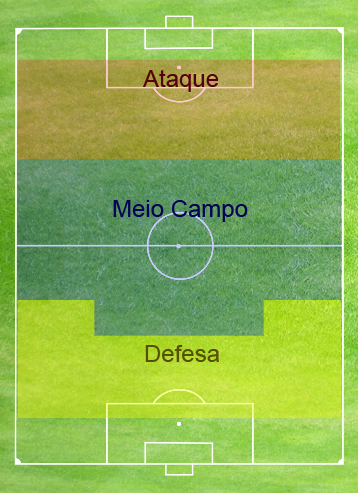
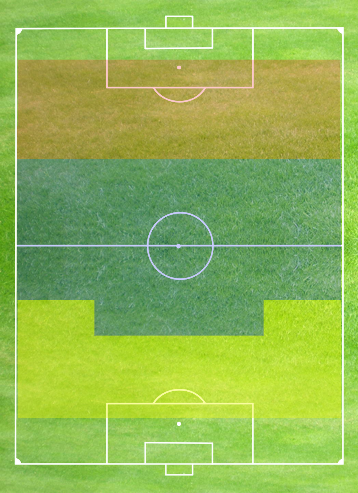
positions mapping

Changed region(s): [[0.3073, 0.3955, 0.7067, 0.4564], [0.3994, 0.6998, 0.6145, 0.7606], [0.3994, 0.1217, 0.6145, 0.1826]]

diff --git a/app/assets/javascripts/formation.js b/app/assets/javascripts/formation.js
@@ -178,11 +178,9 @@ function createEnabledAllPlayers() {
 				$(playerDiv).mousedown(function () {
 					$('#slot').css('display', 'block');
 					$('#soccerField').addClass('positions-map');
-					$('#soccerField').removeClass('soccer-field-grass');
 				});
 				$(playerDiv).mouseup(function () {
 					$('#slot').css("display","none");
-					$('#soccerField').addClass('soccer-field-grass');
 					$('#soccerField').removeClass('positions-map');
 				});
 				$(playerDiv).addClass('player');
@@ -248,11 +246,9 @@ function createPlayers() {
 					$(playerDiv).mousedown(function () {
 						$('#slot').css('display', 'block');
 						$('#soccerField').addClass('positions-map');
-						$('#soccerField').removeClass('soccer-field-grass');
 					});
 					$(playerDiv).mouseup(function () {
 						$('#slot').css("display","none");
-						$('#soccerField').addClass('soccer-field-grass');
 						$('#soccerField').removeClass('positions-map');
 					});
 				} else {
@@ -332,7 +328,6 @@ function handlePlayerDrop(event, ui) {
 	    }
 	}
 	$('#slot').css('display', 'none');
-	$('#soccerField').addClass('soccer-field-grass');
 	$('#soccerField').removeClass('positions-map');
 	if (correctGoalKeeper == 1 && correctPlayers == 10) {
 		enableSenderButton();

diff --git a/app/assets/stylesheets/style.css b/app/assets/stylesheets/style.css
@@ -63,7 +63,6 @@ body {
 	margin-left: 0px;
 	margin-top: 50px;
 	cursor: default;
-	opacity: 0.9;
 }
 
 .pills.positions a {
@@ -83,7 +82,7 @@ body {
 	
 	position: relative;
 	float: left;
-	margin: 50px 0 0 379px;
+	margin: 16px 0 0 379px;
 	width: 420px;	
 	height: 490px;
 	overflow: auto;
@@ -768,7 +767,7 @@ body {
 
 .welcome.recent-winners {
 	margin-top: 100px;
-	margin-left: 24px;
+	margin-left: 12px;
 	width: 250px;
 }
 
@@ -951,4 +950,37 @@ body {
 .match h3 {
 	color: #0000CD;
 	margin-right: 35px;
+}
+
+.legend {
+	margin-bottom: 0px;
+}
+
+.legend ul {
+	list-style:none;
+}
+
+.legend ul li {
+	display: inline; 
+	color: #FFF;
+	text-shadow: 0 1px 1px #F6F6F6;
+	position: relative;
+	margin: 3px;
+	padding: 3px;
+	float: right;
+}
+
+.defense {
+	background: #B8860B;
+	border: 2px solid #DAA520;
+}
+
+.midfield {
+	background: #104E8B;
+	border: 2px solid #4876FF;
+}
+
+.forward {
+	background: #8B0000;
+	border: 2px solid #CD0000;
 }
